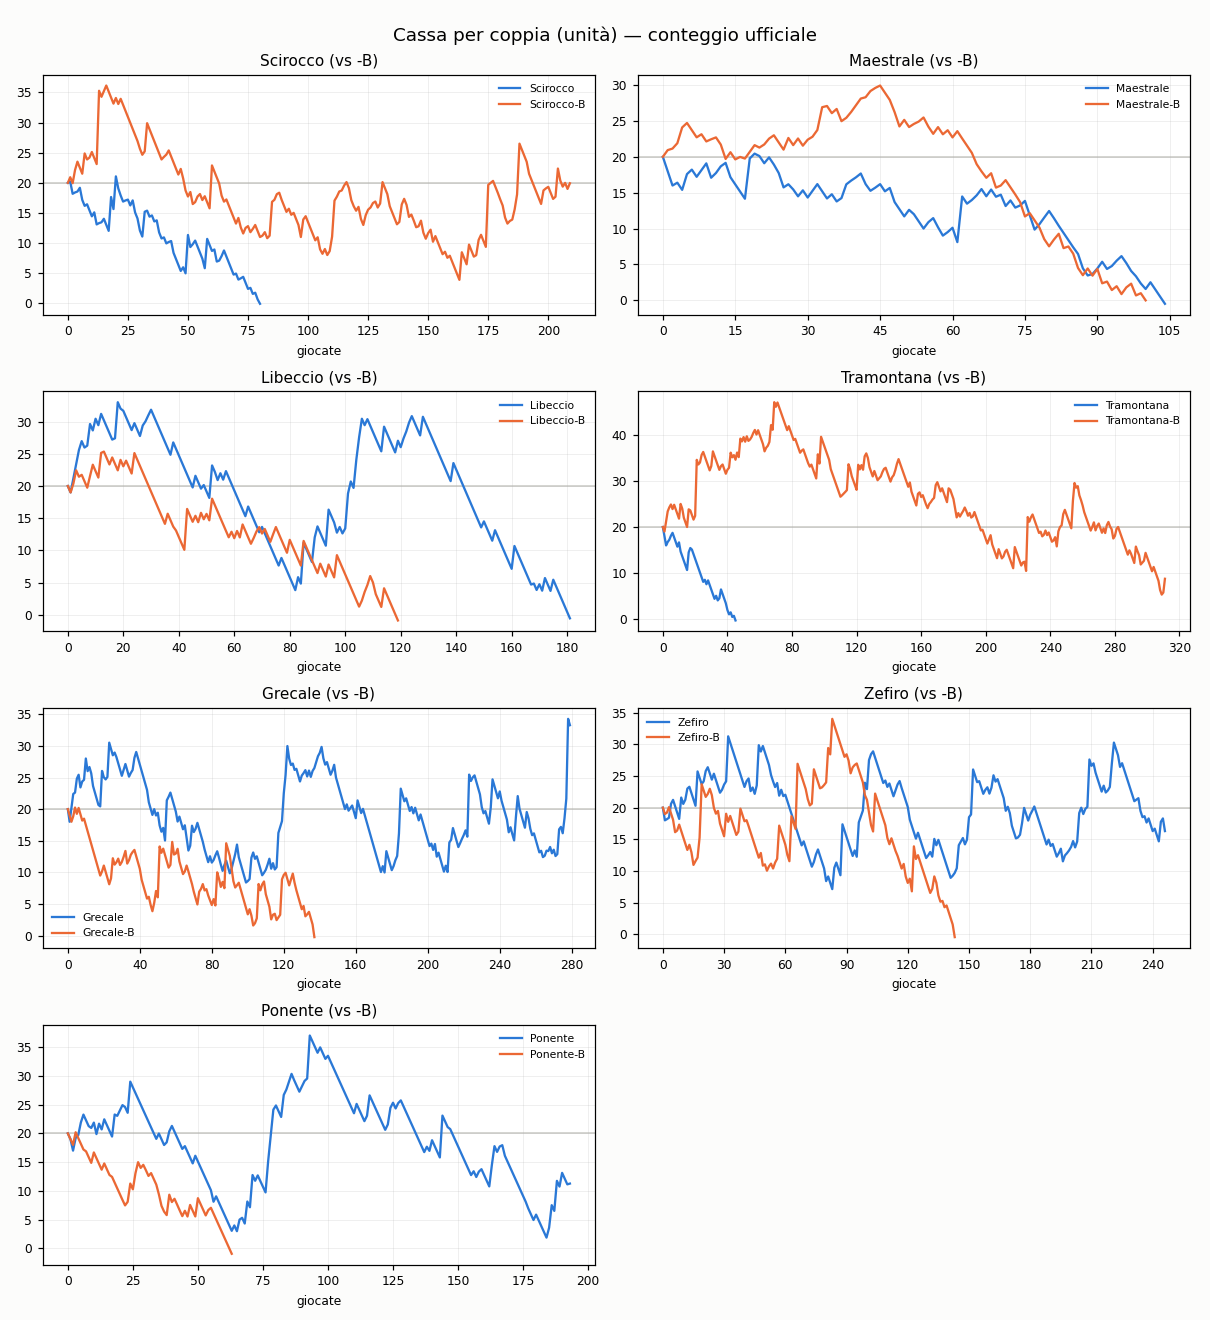
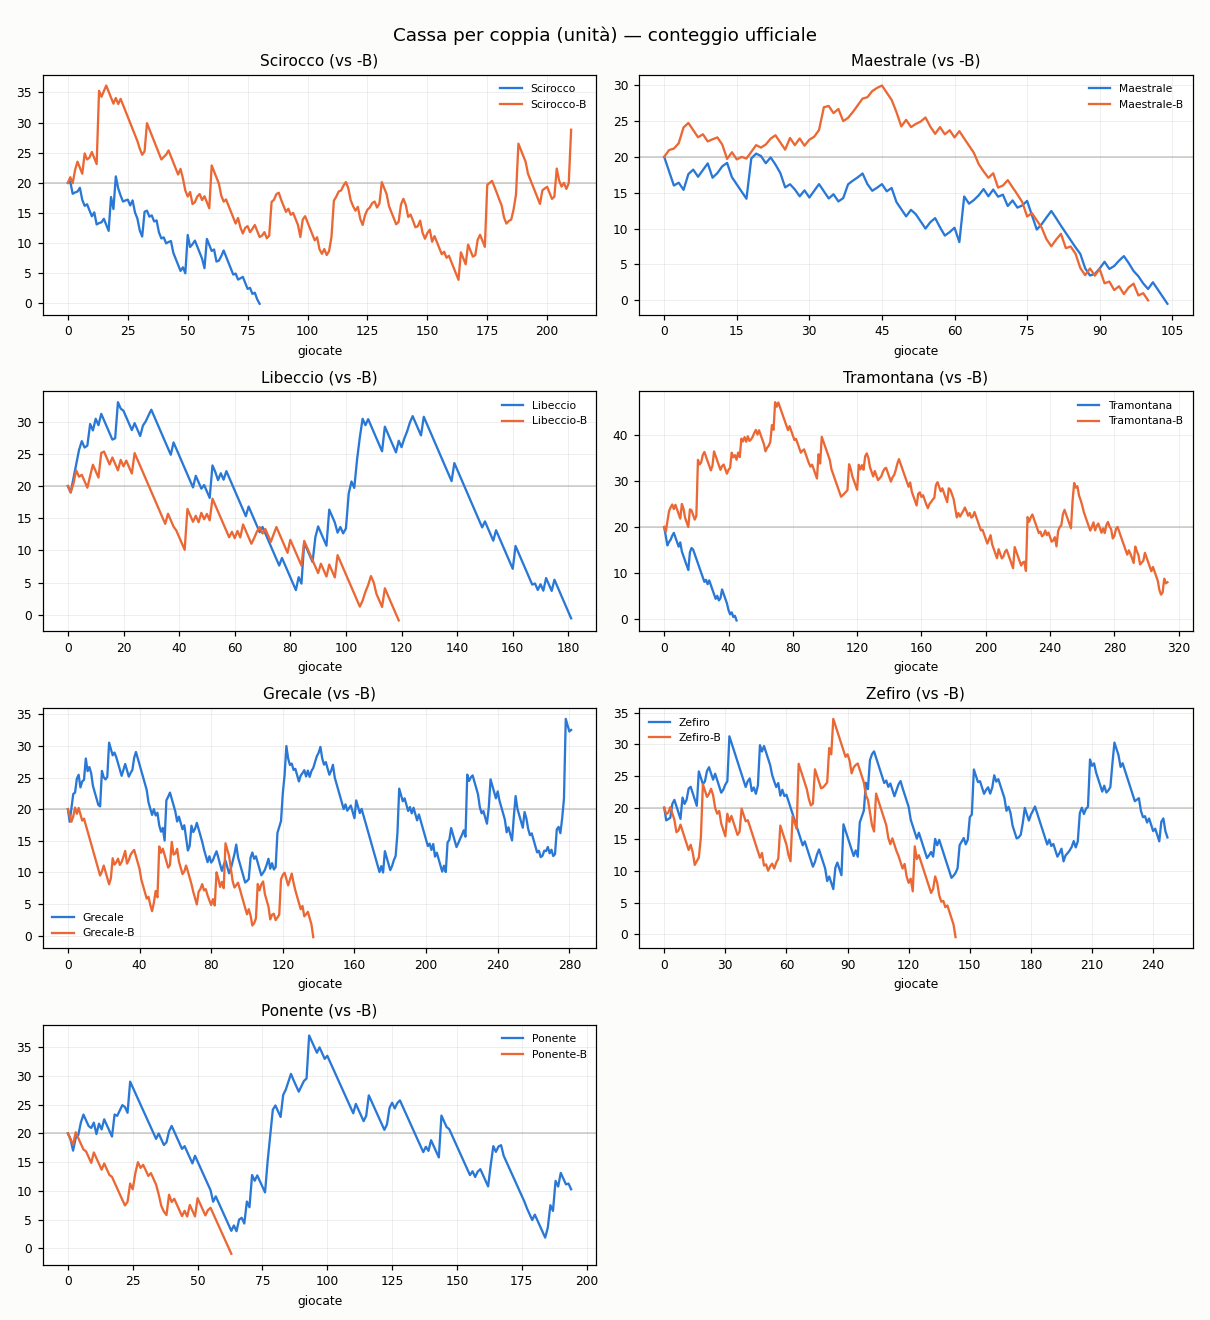
aggiornamento 2026-07-25 13:56 UTC

diff --git a/README.md b/README.md
@@ -37,9 +37,9 @@ scala in unità). Non indichiamo quale.
 
 ## Grafici
 
-![Coppie: dati completi vs ridotti](https://raw.githubusercontent.com/Kitem19/ippica-track-record/main/charts/equity_pairs.png?v=cf40cfc8)
+![Coppie: dati completi vs ridotti](https://raw.githubusercontent.com/Kitem19/ippica-track-record/main/charts/equity_pairs.png?v=82da4a4a)
 
-![Delta per coppia](https://raw.githubusercontent.com/Kitem19/ippica-track-record/main/charts/coppie_delta.png?v=4087bef2)
+![Delta per coppia](https://raw.githubusercontent.com/Kitem19/ippica-track-record/main/charts/coppie_delta.png?v=a8dd976e)
 
 ### Come leggere i grafici
 
@@ -56,34 +56,34 @@ scala in unità). Non indichiamo quale.
 
 _Poche giornate: numeri ancora rumorosi, si conclude a fine fase (31/7)._
 
-- **Scirocco**: dati ridotti avanti di 20,0u — qui gli extra non aiutano
+- **Scirocco**: dati ridotti avanti di 28,9u — qui gli extra non aiutano
 - **Maestrale**: in sostanziale pareggio — troppo presto per dire
 - **Libeccio**: in sostanziale pareggio — troppo presto per dire
-- **Tramontana**: dati ridotti avanti di 9,0u — qui gli extra non aiutano
-- **Grecale**: dati completi avanti di 33,5u
-- **Zefiro**: dati completi avanti di 16,8u
-- **Ponente**: dati completi avanti di 12,2u
+- **Tramontana**: dati ridotti avanti di 8,3u — qui gli extra non aiutano
+- **Grecale**: dati completi avanti di 32,8u
+- **Zefiro**: dati completi avanti di 15,8u
+- **Ponente**: dati completi avanti di 11,2u
 
 ## Classifica (conteggio ufficiale)
 
 | Sistema | Cassa (u) | P/L (u) | Selezioni | Escluse | Stato |
 |---|---|---|---|---|---|
-| Grecale | 33,3 | +13,3 | 279 | 4 | 🟢 |
-| Scirocco-B | 19,9 | -0,1 | 209 | 0 | 🟢 |
-| Zefiro | 16,3 | -3,7 | 246 | 5 | 🟢 |
-| Ponente | 11,3 | -8,7 | 193 | 28 | 🟢 |
-| Tramontana-B | 8,8 | -11,2 | 311 | 0 | 🟢 |
-| Maestrale-B | 0,0 | -20,0 | 100 | 210 | 🛑 |
-| Scirocco | 0,0 | -20,1 | 80 | 219 | 🛑 |
-| Grecale-B | 0,0 | -20,2 | 137 | 151 | 🛑 |
-| Tramontana | 0,0 | -20,3 | 45 | 284 | 🛑 |
-| Zefiro-B | 0,0 | -20,5 | 143 | 54 | 🛑 |
-| Maestrale | 0,0 | -20,5 | 104 | 231 | 🛑 |
-| Libeccio | 0,0 | -20,6 | 181 | 140 | 🛑 |
-| Libeccio-B | 0,0 | -20,9 | 119 | 155 | 🛑 |
+| Grecale | 32,5 | +12,5 | 281 | 4 | 🟢 |
+| Scirocco-B | 28,8 | +8,8 | 210 | 0 | 🟢 |
+| Zefiro | 15,3 | -4,7 | 247 | 5 | 🟢 |
+| Ponente | 10,3 | -9,7 | 194 | 28 | 🟢 |
+| Tramontana-B | 8,0 | -12,0 | 313 | 0 | 🟢 |
+| Maestrale-B | 0,0 | -20,0 | 100 | 212 | 🛑 |
+| Scirocco | 0,0 | -20,1 | 80 | 221 | 🛑 |
+| Grecale-B | 0,0 | -20,2 | 137 | 152 | 🛑 |
+| Tramontana | 0,0 | -20,3 | 45 | 285 | 🛑 |
+| Zefiro-B | 0,0 | -20,5 | 143 | 55 | 🛑 |
+| Maestrale | 0,0 | -20,5 | 104 | 232 | 🛑 |
+| Libeccio | 0,0 | -20,6 | 181 | 142 | 🛑 |
+| Libeccio-B | 0,0 | -20,9 | 119 | 157 | 🛑 |
 | Ponente-B | 0,0 | -21,0 | 63 | 77 | 🛑 |
 
-_Aggiornato: 25/07 15:51_
+_Aggiornato: 25/07 15:56_
 ---
 *Nessuna delle informazioni qui pubblicate costituisce consiglio di gioco.
 Il gioco può causare dipendenza — 18+.*
